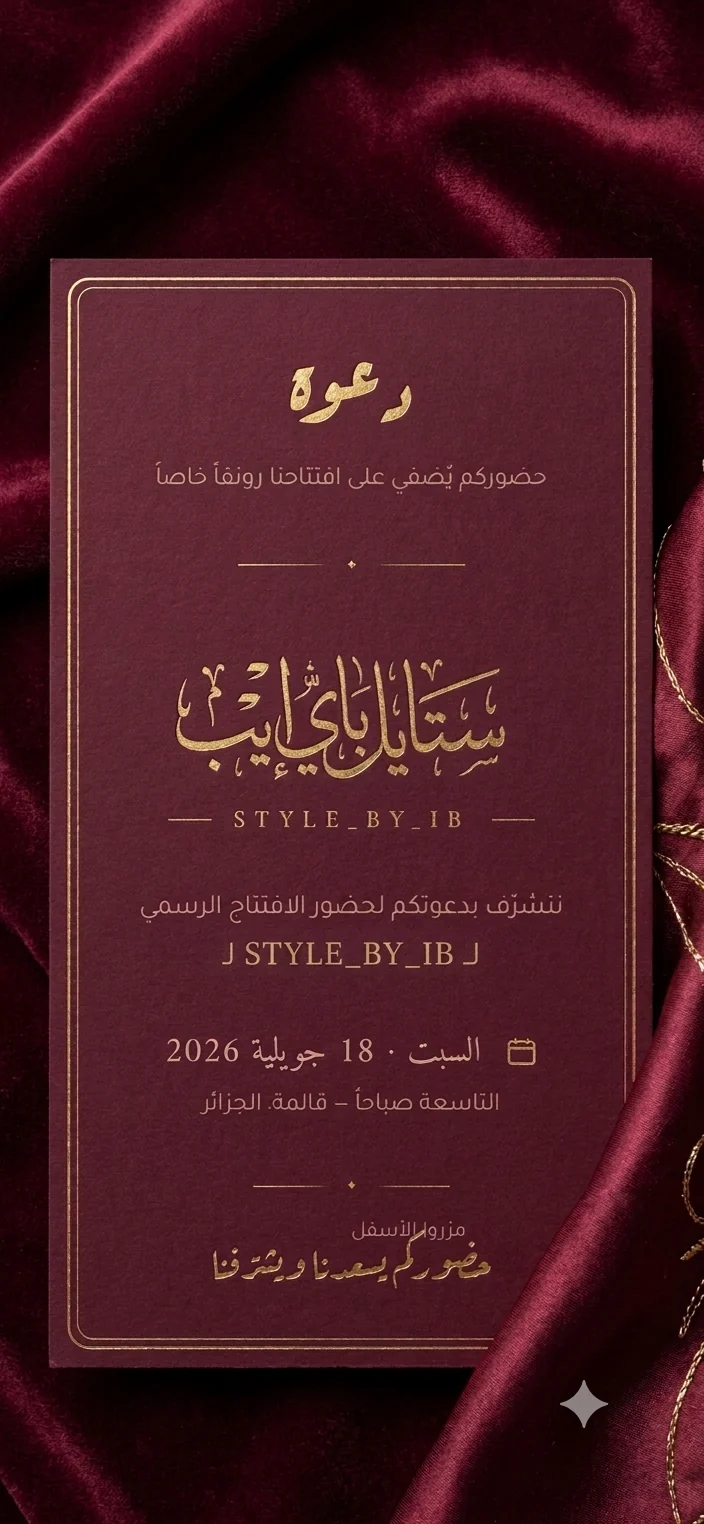
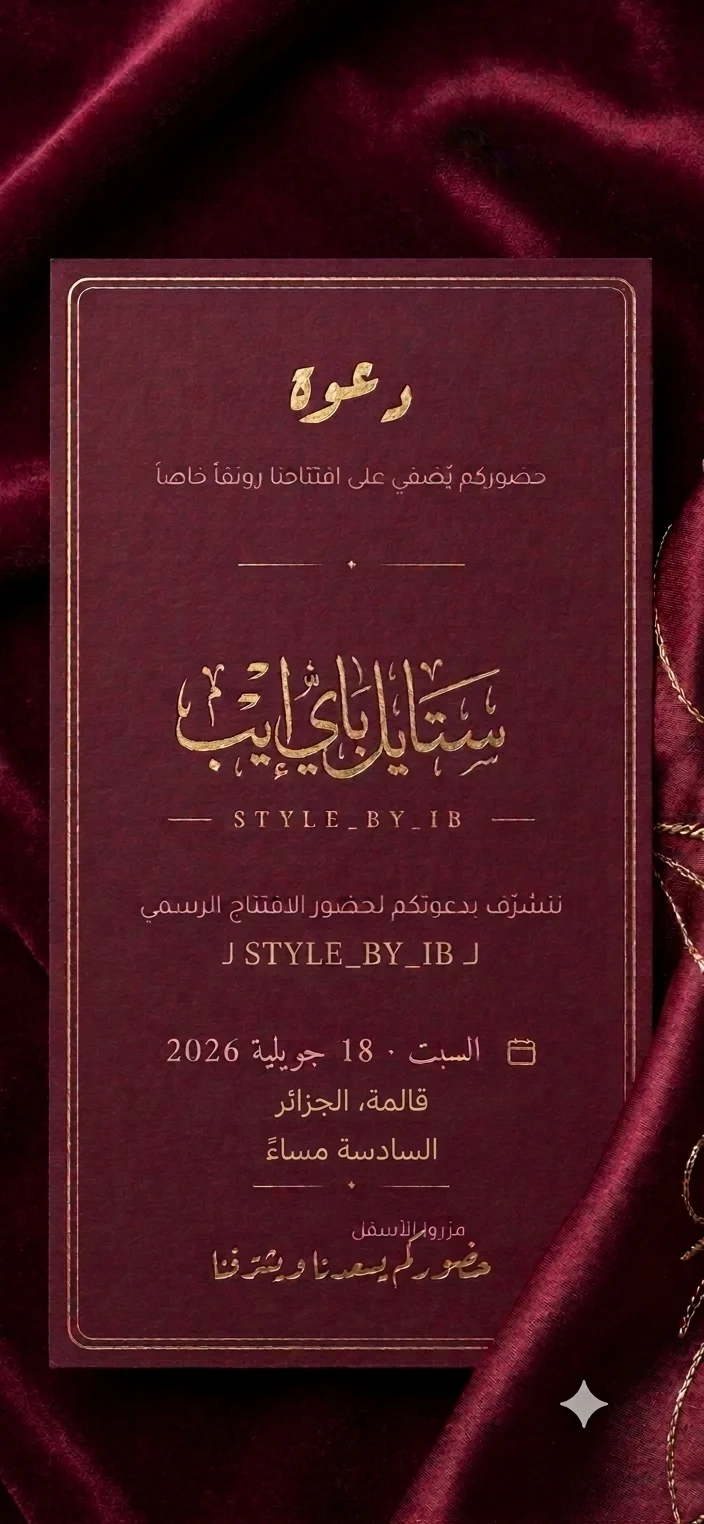
Swap card image; move opening time to 6 PM
Update the reveal poster to the new velvet card (السادسة مساءً) and set
the countdown target to 2026-07-18T18:00 (6 PM) instead of 9 AM.

Claude-Session: https://claude.ai/code/session_01AekXUfWR2AqzRwuQEMMTBZ

diff --git a/src/config/content.ts b/src/config/content.ts
@@ -123,8 +123,8 @@ export const siteContent: SiteContent = {
   subtitle: 'الافتتاح الكبير',
 
   event: {
-    // ── السبت ١٨ جويلية ٢٠٢٦ — التاسعة صباحاً ──
-    dateISO: '2026-07-18T09:00:00',
+    // ── السبت ١٨ جويلية ٢٠٢٦ — السادسة مساءً ──
+    dateISO: '2026-07-18T18:00:00',
   },
 
   invitation: {
@@ -135,7 +135,7 @@ export const siteContent: SiteContent = {
     subtitle: 'للقفاطين والأزياء الراقية',
     dateLabel: '18 جويلية 2026',
     dayLabel: 'السبت',
-    timeLabel: 'التاسعة صباحاً',
+    timeLabel: 'السادسة مساءً',
     locationLabel: 'قالمة، الجزائر',
     closing: 'حضوركم يسعدنا ويشرّفنا',
   },
